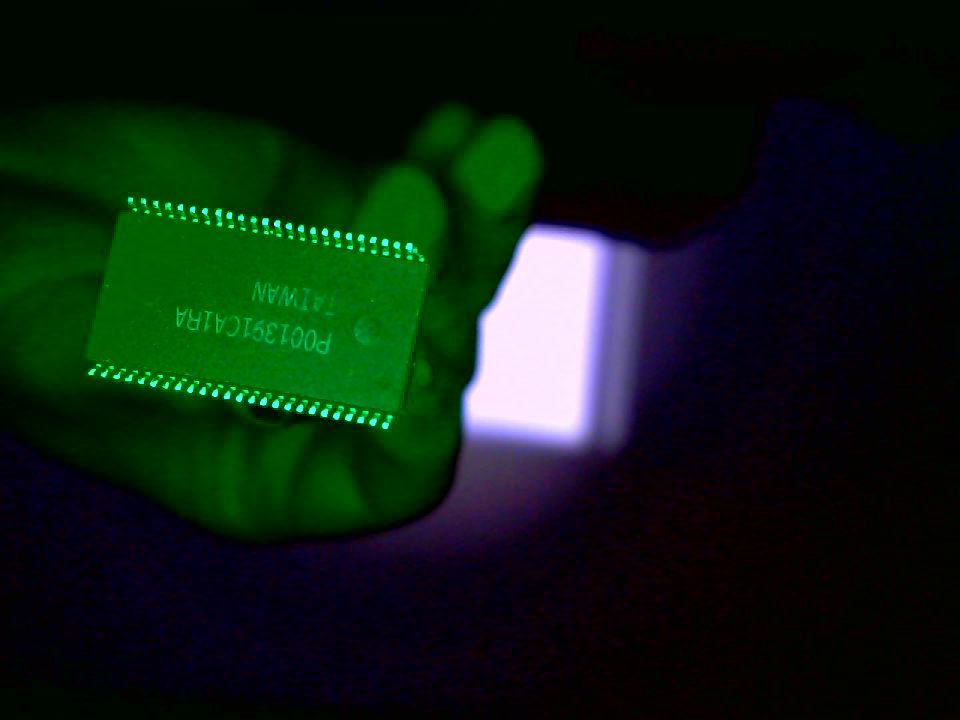
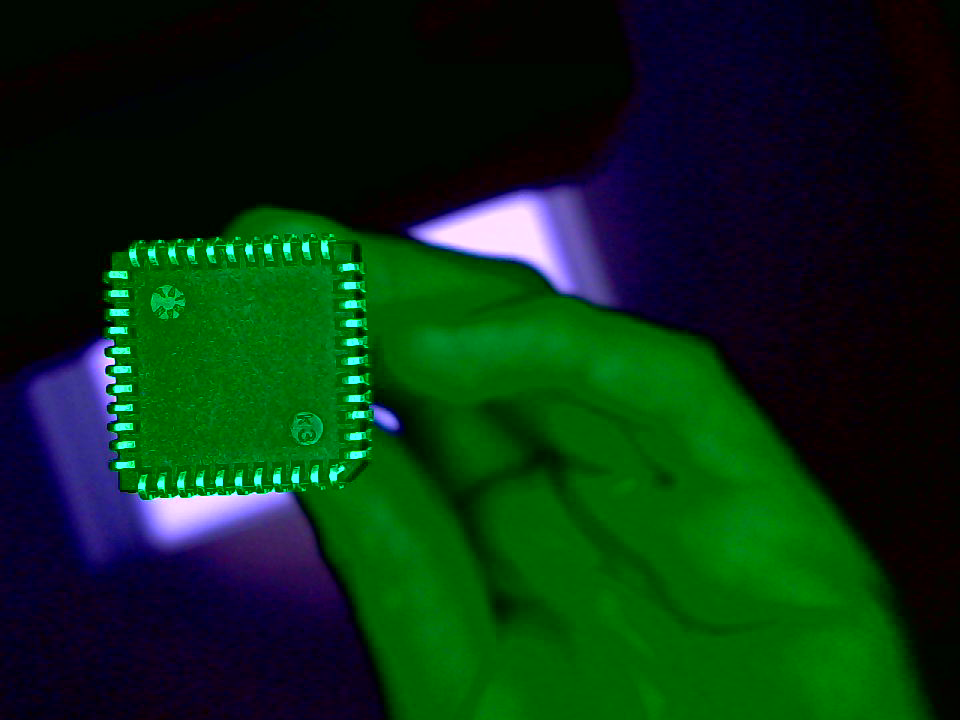
First Succesfull test of Part-Placement!

diff --git a/src/process/image/PartDetector.java b/src/process/image/PartDetector.java
@@ -3,11 +3,14 @@ package process.image;
 import java.awt.Color;
 import java.awt.Graphics;
 import java.awt.Graphics2D;
+import java.awt.RenderingHints;
 import java.awt.image.BufferedImage;
 
 import process.PicProcessingStatLoader;
 import process.Spindel;
+import utility.VectorAdvanced;
 import components.FootprintDetectionHints;
+import components.FootprintPainter;
 
 public class PartDetector {
 
@@ -20,6 +23,7 @@ public class PartDetector {
 	
 	public double cgX;
 	public double cgY;
+	public double rotation;
 	
 	public PartDetector(int centerRotX, int centerRotY){
 		crX = centerRotX;
@@ -53,20 +57,68 @@ public class PartDetector {
 			}
 		}
 		r /= i;
+		rotation  = r;
 		System.out.println("G "+Math.toDegrees(r));
 		debug.Debug.println(" Angle: "+Math.toDegrees(r));
 		imProcessedToShow = new BufferedImage(imToShow.getWidth(), imToShow.getHeight(), BufferedImage.TYPE_INT_ARGB);
 		Graphics2D g2d = (Graphics2D)imProcessedToShow.getGraphics();
 		g2d.translate(crX, crY);
+		g2d.setRenderingHint(RenderingHints.KEY_INTERPOLATION, RenderingHints.VALUE_INTERPOLATION_BICUBIC);
 		g2d.rotate(-r);
 		g2d.drawImage(imToShow, -crX, -crY, null);
+		
+		int[] cmg = CgDetector.getAdvCG(imProcessedToShow, 50);
+		
+		PicturFpComparison pfc = new PicturFpComparison(f.fp, pps.scaling, cmg[0], cmg[1]);
+		pfc.search(imProcessedToShow, PicturFpComparison.UP_DOWN, 50);
+		pfc.search(imProcessedToShow, PicturFpComparison.LEFT_RIGHT, 50);
+		pfc.search(imProcessedToShow, PicturFpComparison.UP_DOWN, 50);
+		pfc.search(imProcessedToShow, PicturFpComparison.LEFT_RIGHT, 50);
+		
+		FootprintPainter fpp = new FootprintPainter(f.fp, pps.scaling, false, Color.red);
+		
+		//1st painting:
 		g2d.rotate(r);
-		g2d.setColor(Color.green);
-		g2d.drawRect(-1, -1, 2, 2);
+		g2d.setColor(Color.yellow);
+		g2d.drawLine(-10, 0, 10, 0);
+		g2d.drawLine(0, -10, 0, 10);
 		g2d.translate(-crX, -crY);
 		g2d.setColor(new Color(100,100,100,100));
 		for (int j = 0; j < im.getHeight(); j+=5) {
 			g2d.drawLine(0, j, im.getWidth(), j);
 		}
+		g2d.setColor(Color.blue);
+		g2d.drawLine(-10+cmg[0], cmg[1], 10+cmg[0], cmg[1]);
+		g2d.drawLine(cmg[0], -10+cmg[1], cmg[0], 10+cmg[1]);
+		cmg[0] = pfc.xPos;
+		cmg[1] = pfc.yPos;
+		g2d.setColor(Color.red);
+		g2d.drawLine(-10+cmg[0], cmg[1], 10+cmg[0], cmg[1]);
+		g2d.drawLine(cmg[0], -10+cmg[1], cmg[0], 10+cmg[1]);
+		g2d.drawImage(fpp.buffer, pfc.xPos-fpp.middleX, pfc.yPos-fpp.middleY, null);
+		//1st painting END
+		
+		VectorAdvanced crToCg = new VectorAdvanced(crX, crY, pfc.xPos, pfc.yPos);
+		crToCg.rotate(rotation);
+		cgX = crToCg.x2;
+		cgY = crToCg.y2;
+		
+		//2nd painting:
+		g2d = (Graphics2D)imToShow.getGraphics();
+		for (int j = 0; j < p.length; j++) {
+			if(p[j]==null)continue;
+			EdgeDetector.drawEdges(imToShow, p[j]);
+		}
+		g2d.setColor(Color.yellow);
+		g2d.drawLine(-10+crX, crY, 10+crX, crY);
+		g2d.drawLine(crX, -10+crY, crX, 10+crY);
+		g2d.setColor(Color.red);
+		g2d.drawLine(-15+(int)cgX, (int)cgY, 15+(int)cgX, (int)cgY);
+		g2d.drawLine((int)cgX, -15+(int)cgY, (int)cgX, 15+(int)cgY);
+		g2d.translate(crToCg.x2, crToCg.y2);
+		g2d.setRenderingHint(RenderingHints.KEY_INTERPOLATION, RenderingHints.VALUE_INTERPOLATION_BICUBIC);
+		g2d.rotate(rotation);
+		g2d.drawImage(fpp.buffer, -fpp.middleX, -fpp.middleY, null);
+		
 	}
 }

diff --git a/src/process/Spindel.java b/src/process/Spindel.java
@@ -1,5 +1,6 @@
 package process;
 
+import java.awt.Color;
 import java.awt.Graphics;
 import java.awt.image.BufferedImage;
 import java.io.File;
@@ -15,6 +16,7 @@ public class Spindel {
 	public final int centerOfRotationY;
 	
 	private BufferedImage visualised;
+	private BufferedImage visualisedWoRc;
 	
 	public byte status;
 	public static final byte STATUS_EMPTY = 10;
@@ -30,23 +32,25 @@ public class Spindel {
 		centerOfRotationY = 0;//TODO
 		
 		currentFPDH = new FootprintDetectionHints(
-				new KiCadFileImport(new File("SOT-23.kicad_mod")).footprint,
-				FootprintDetectionHints.DETECT_BOTH_SIDES_WIDE);
+				new KiCadFileImport(new File("PLCC-44.kicad_mod")).footprint,
+				FootprintDetectionHints.DETECT_ALL_SIDES_PADDED);
 	}
 	
 	public void paintVisu(Graphics g, int x, int y){
 		if(visualised != null)
 			g.drawImage(visualised, x, y, null);
+		if(visualisedWoRc != null)
+			g.drawImage(visualisedWoRc, x, y+500, null);
 	}
 	
 	public void processImage(BufferedImage i, int offsetX, int offsetY, PicProcessingStatLoader pps){
 		int[] mp = FootprintSize.getSize(currentFPDH.fp, pps.scaling);
 		int crX = centerOfRotationX+offsetX;
 		int crY = centerOfRotationY+offsetY;
-		int ax = crX-mp[0];
-		int ay = crY-mp[1];
-		int bx = mp[0]*2;
-		int by = mp[1]*2;
+		int ax = crX-mp[0]*2;
+		int ay = crY-mp[1]*2;
+		int bx = mp[0]*4;
+		int by = mp[1]*4;
 		if(ax<0)ax = 0;
 		if(ay<0)ay = 0;
 		crX -= ax;
@@ -60,5 +64,22 @@ public class Spindel {
 		pd.look(worker, currentFPDH, pps);
 		
 		visualised = pd.imProcessedToShow;
+		visualisedWoRc = pd.imToShow;
+		
+		//Drawing variables
+		Graphics g = visualisedWoRc.getGraphics();
+		g.setFont(main.Fonts.font12);
+		g.setColor(Color.yellow);
+		g.drawString("CR: x"+pd.crX+"px ["
+				+utility.DoubleWriter.fixedKommata((double)pd.crX/pps.scaling, 3)+"mm] y"
+				+pd.crY+"px ["
+				+utility.DoubleWriter.fixedKommata((double)pd.crY/pps.scaling, 3)+"mm]", 5, 12);
+		
+		g.setColor(Color.white);
+		g.drawString("CG: x"+(int)(pd.cgX-pd.crX)+"px ["
+				+utility.DoubleWriter.fixedKommata((double)(pd.cgX-pd.crX)/pps.scaling, 3)+"mm] y"
+				+(int)(pd.cgY-pd.crY)+"px ["
+				+utility.DoubleWriter.fixedKommata((double)(pd.cgY-pd.crY)/pps.scaling, 3)+"mm]", 5, 24);
+		g.drawString("Rotation "+utility.DoubleWriter.fixedKommata(Math.toDegrees(pd.rotation),1), 5, 36);
 	}
 }

diff --git a/src/process/image/PicturFpComparison.java b/src/process/image/PicturFpComparison.java
@@ -1,0 +1,72 @@
+package process.image;
+
+import java.awt.Color;
+import java.awt.image.BufferedImage;
+
+import components.Footprint;
+import components.FootprintPainter;
+
+public class PicturFpComparison {
+
+	private FootprintPainter fp;
+	
+	public int xPos;
+	public int yPos;
+	
+	public static final int LEFT_RIGHT = 22;
+	public static final int UP_DOWN = 24;
+	
+	public PicturFpComparison(Footprint f, double scale, int x, int y){
+		fp = new FootprintPainter(f, scale, true, Color.white);
+		xPos = x;
+		yPos = y;
+	}
+	
+	public void search(BufferedImage im, int direction, int size){
+		int xMax = -1;
+		int yMax = -1;
+		long max = 0;
+		for (int i = -size; i < size; i++) {
+			int x = xPos;
+			int y = yPos;
+			if(direction==LEFT_RIGHT)
+				x+=i;
+			else
+				y+=i;
+			
+			//Checking oob;
+			if(x-fp.middleX-1<0)continue;
+			if(y-fp.middleY-1<0)continue;
+			if(x+fp.middleX+1>=im.getWidth())continue;
+			if(y+fp.middleY+1>=im.getHeight())continue;
+			
+			long sea = searchIntern(im, x, y);
+			if(sea>max){
+				max = sea;
+				xMax = x;
+				yMax = y;
+			}
+		}
+		if(xMax<0||yMax<0){
+			debug.Debug.println("* PROBLEM Checking footprint: no match -> PUE!", debug.Debug.ERROR);
+			return;
+		}
+		xPos = xMax;
+		yPos = yMax;
+	}
+	
+	private long searchIntern(BufferedImage im, int x, int y){
+		BufferedImage mask = fp.buffer;
+		long c = 0;
+		
+		for (int i = 0; i < mask.getWidth(); i++) {
+			for (int j = 0; j < mask.getHeight(); j++) {
+				if((mask.getRGB(i, j)&0xff)<100)continue;
+				
+				int m = im.getRGB(x-fp.middleX+i, y-fp.middleY+j);
+				c += (m&0xff);
+			}
+		}
+		return c;
+	}
+}

diff --git a/src/process/image/EdgeDetector.java b/src/process/image/EdgeDetector.java
@@ -25,7 +25,7 @@ public class EdgeDetector {
 		delta = del;
 	}
 	
-	public void drawEdges(BufferedImage img, Point[][] p){
+	public static void drawEdges(BufferedImage img, Point[][] p){
 		Graphics g = img.getGraphics();
 		g.setColor(Color.green);
 		for (int i = 0; i < p.length; i++) {
@@ -44,6 +44,8 @@ public class EdgeDetector {
 	public double getAngleToY(Point[][] p){
 		double d = 0.0;
 		int amount = 0;
+		if(p[0] == null)
+			return 0.0;
 		for (int i = 0; i < p[0].length; i++) {
 			try{
 				double f = getAngleToYIntern(p, i);

diff --git a/src/utility/VectorAdvanced.java b/src/utility/VectorAdvanced.java
@@ -1,0 +1,25 @@
+package utility;
+
+public class VectorAdvanced {
+
+	public double x1;
+	public double x2;
+	public double y1;
+	public double y2;
+	
+	public VectorAdvanced(double x1, double y1, double x2, double y2){
+		this.x1 = x1;
+		this.y1 = y1;
+		this.x2 = x2;
+		this.y2 = y2;
+	}
+	
+	public void rotate(double rad){
+		double x = x2-x1;
+		double y = y2-y1;
+		
+		x2 = x * Math.cos(rad) - y * Math.sin(rad)+x1;
+	    y2 = x * Math.sin(rad) + y * Math.cos(rad)+y1;
+	}
+	
+}

diff --git a/src/utility/DoubleWriter.java b/src/utility/DoubleWriter.java
@@ -1,0 +1,30 @@
+package utility;
+
+public class DoubleWriter {
+
+	public static String fixedKommata(double d, int k){
+		int u = 1;
+		for (int i = 0; i < k; i++) {
+			u*=10;
+		}
+		u = (int)(d*u);
+		
+		String s = "";
+		if(u<0)
+			u*=-1;
+		for (int i = 0; i < 20; i++) {
+			if(i==k)
+				s = "."+s;
+			
+			s = ""+(u%10)+s;
+			u/=10;
+			if(u==0)
+				break;
+		}
+		if(d<1&&d>-1)
+			s = "0."+s;
+		if(d<0)
+			s="-"+s;
+		return s;
+	}
+}

diff --git a/src/gui/Overview.java b/src/gui/Overview.java
@@ -69,8 +69,8 @@ public class Overview extends AbstractMenu{
 			@Override
 			protected void isClicked() {
 				fpp = new FootprintPainter(
-						new components.kiCad.KiCadFileImport(new File("SSOP1.kicad_mod")).footprint
-						,10,false,Color.red);
+						new components.kiCad.KiCadFileImport(new File("PLCC-44.kicad_mod")).footprint
+						,13.0,false,Color.red);
 			}
 		};
 		add(pcb1stat);

diff --git a/src/process/image/Vector.java b/src/process/image/Vector.java
@@ -16,8 +16,11 @@ public class Vector {
 	}
 	
 	public double getAngleToY(){
-		if(p1.x == p2.x)
-			return 0.0;
+		if(p1.x == p2.x){
+			if(p1.y == p2.y)
+				return 0.0;
+			return Math.PI/2;
+		}
 		double d = (double)(p2.y-p1.y)/(double)(p2.x-p1.x);
 		return Math.atan(d);
 	}
